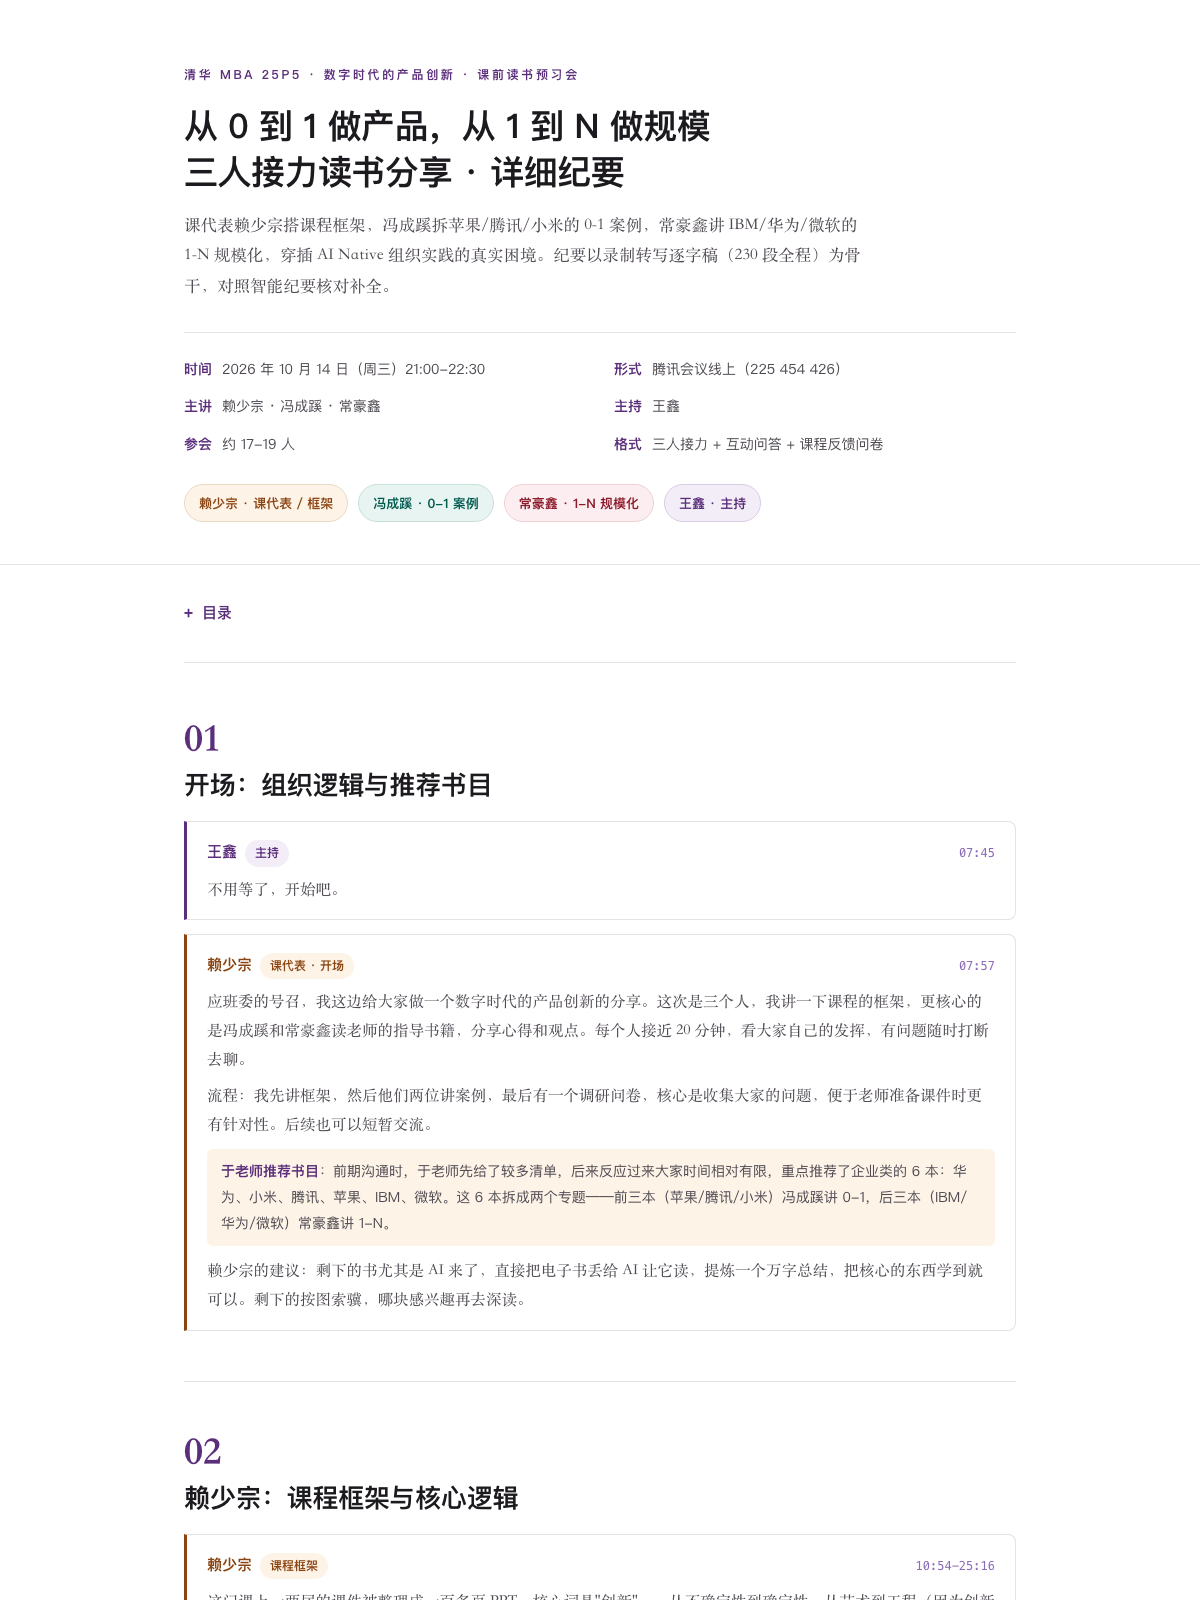
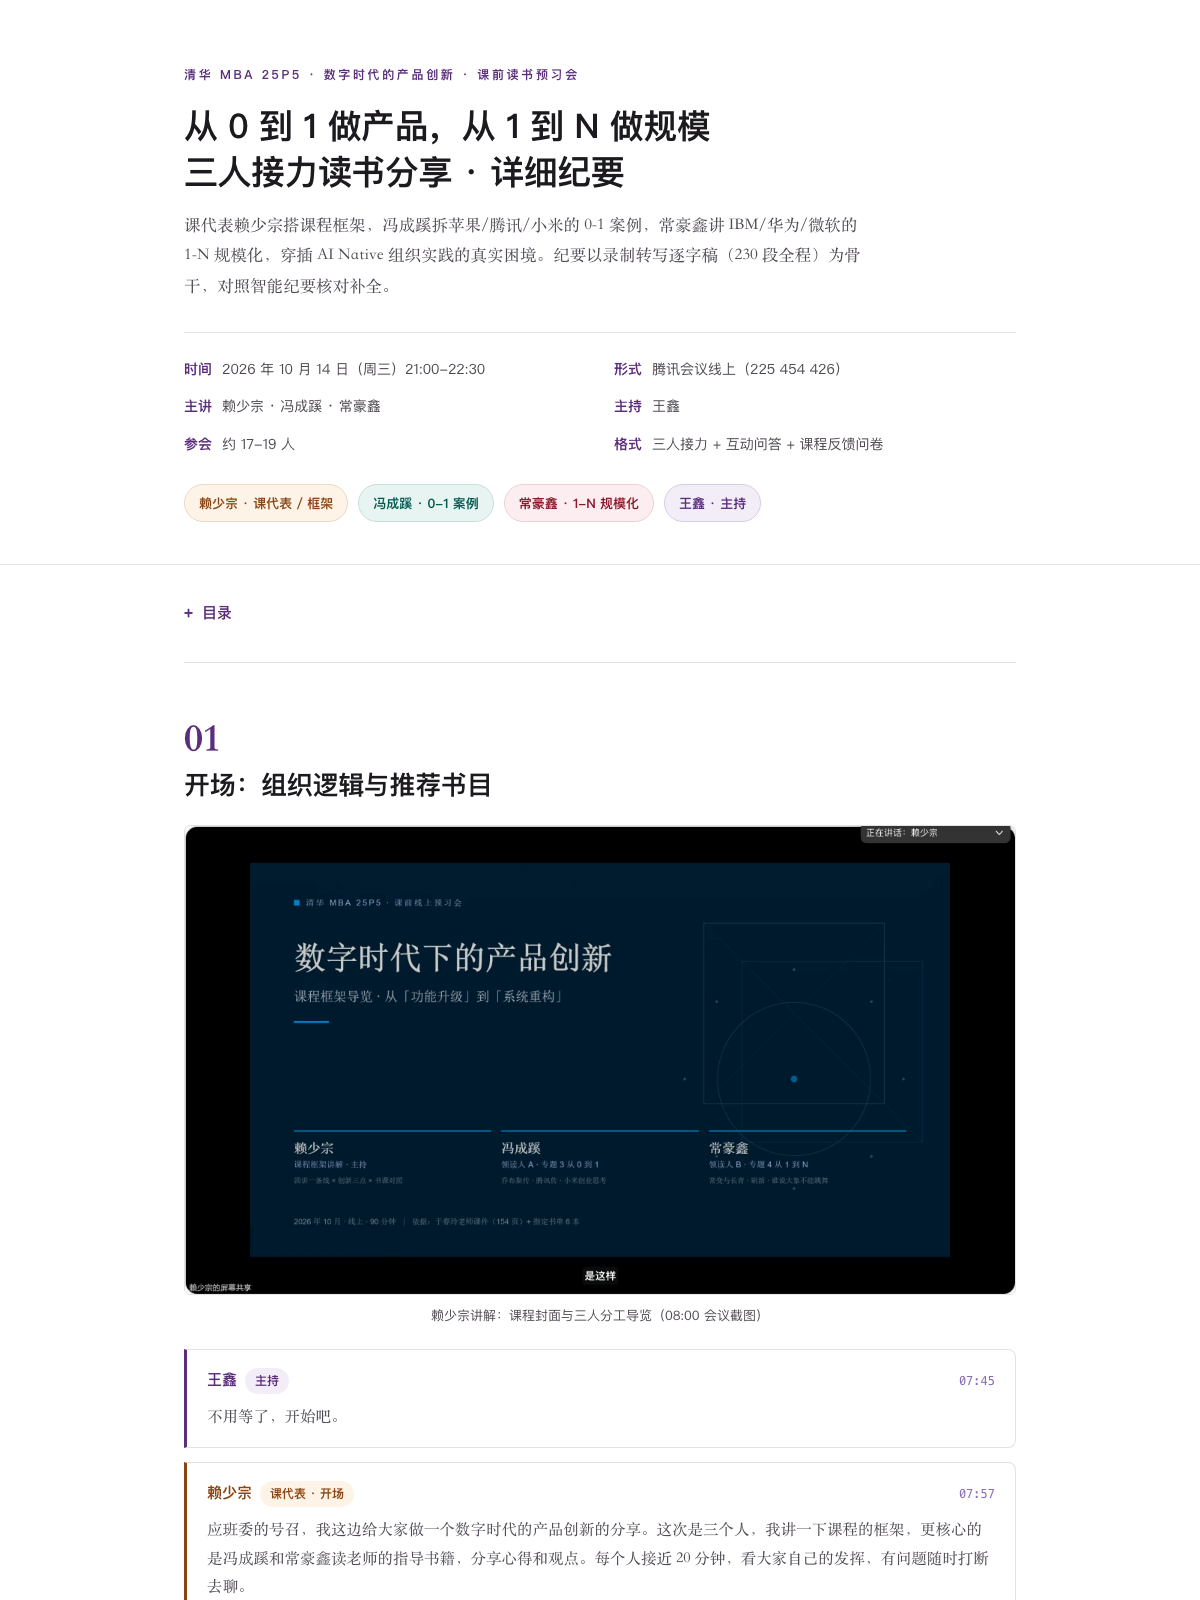
feat(dushuhui): 更新数字时代的产品创新读书会纪要至24图完整版

Changed region(s): [[0.1542, 0.5, 0.8633, 0.8438], [0.1542, 0.8438, 0.8325, 1.0]]

diff --git a/dushuhui/20261014-shuzichanpin-01/index.html b/dushuhui/20261014-shuzichanpin-01/index.html
@@ -251,6 +251,10 @@ section.ch{animation:fadein .5s ease both}
 <section class="ch" id="ch1">
   <div class="ch-num">01</div>
   <h2>开场：组织逻辑与推荐书目</h2>
+  <figure class="event-photo">
+    <img src="images/09-封面课程导览.png" alt="赖少宗讲解：课程封面与三人分工导览（08:00 会议截图）" width="2216" height="1248" loading="lazy">
+    <figcaption>赖少宗讲解：课程封面与三人分工导览（08:00 会议截图）</figcaption>
+  </figure>
 
   <div class="turn-list">
     <div class="turn host">
@@ -317,7 +321,11 @@ section.ch{animation:fadein .5s ease both}
     </table>
   </div>
 
-  <h3>关键数据与模型</h3>
+    <figure class="event-photo">
+    <img src="images/10-全课论证总图.png" alt="赖少宗讲解：全课论证总图：整门课在论证什么、靠什么串起来（14:00 会议截图）" width="2216" height="1248" loading="lazy">
+    <figcaption>赖少宗讲解：全课论证总图：整门课在论证什么、靠什么串起来（14:00 会议截图）</figcaption>
+  </figure>
+<h3>关键数据与模型</h3>
   <figure class="event-photo">
     <img src="images/slide-01-课程框架图.png" alt="产品创新三类协同课程框架图" width="1620" height="1080" loading="lazy">
     <figcaption>赖少宗讲解：产品创新三类协同课程框架图（11:20 会议截图）</figcaption>
@@ -325,6 +333,10 @@ section.ch{animation:fadein .5s ease both}
   <figure class="event-photo">
     <img src="images/slide-02-NPD流程与组合管理.png" alt="NPD流程与组合管理总逻辑图" width="1620" height="1080" loading="lazy">
     <figcaption>赖少宗讲解：NPD 流程与组合管理总逻辑图（14:47 会议截图）</figcaption>
+  </figure>
+  <figure class="event-photo">
+    <img src="images/11-颠覆式创新数据九宫格.png" alt="赖少宗讲解：颠覆式创新只占 14% 却贡献 61% 利润，含创新九宫格（20:44 会议截图）" width="2216" height="1248" loading="lazy">
+    <figcaption>赖少宗讲解：颠覆式创新只占 14% 却贡献 61% 利润，含创新九宫格（20:44 会议截图）</figcaption>
   </figure>
   <ul class="bul">
     <li><strong>颠覆式创新的价值</strong>：颠覆性新产品只占 <strong>14%</strong>，却贡献 <strong>61%</strong> 的利润；渐进式产品占 60% 多，只贡献 30% 多利润。结论：必须向颠覆式创新转型。</li>
@@ -336,6 +348,10 @@ section.ch{animation:fadein .5s ease both}
   </ul>
 
   <h3>九大秘诀（战略/组织/战术）</h3>
+  <figure class="event-photo">
+    <img src="images/12-创新战略四步框架.jpg" alt="赖少宗讲解：从目标到资源：四步框架把创新战略变成资源分配（22:15 会议截图）" width="2216" height="1248" loading="lazy">
+    <figcaption>赖少宗讲解：从目标到资源：四步框架把创新战略变成资源分配（22:15 会议截图）</figcaption>
+  </figure>
   <div class="turn lsz">
     <div class="turn-head">
       <span class="turn-name">赖少宗</span>
@@ -355,7 +371,11 @@ section.ch{animation:fadein .5s ease both}
     <li>成果数据：供应链集成后合同齐套发货率从 <strong>20% → 85%</strong>；客户结构上，前 50 大运营商收入占比从 <strong>38% → 65%</strong>。</li>
   </ul>
 
-  <h3>推荐书目与分工</h3>
+    <figure class="event-photo">
+    <img src="images/13-班级画像对号入座.png" alt="赖少宗讲解：四讲收官：按班级画像对号入座、带着问题进课堂（25:39 会议截图）" width="2216" height="1248" loading="lazy">
+    <figcaption>赖少宗讲解：四讲收官：按班级画像对号入座、带着问题进课堂（25:39 会议截图）</figcaption>
+  </figure>
+<h3>推荐书目与分工</h3>
   <div class="table-wrap">
     <table>
       <thead>
@@ -432,6 +452,10 @@ section.ch{animation:fadein .5s ease both}
   </div>
 
   <h4>1997 年乔布斯回归：产品线聚焦</h4>
+  <figure class="event-photo">
+    <img src="images/14-苹果四象限聚焦.jpg" alt="冯成蹊讲解：回归后的四格：明确客户与使用场景（38:23 会议截图）" width="2216" height="1248" loading="lazy">
+    <figcaption>冯成蹊讲解：回归后的四格：明确客户与使用场景（38:23 会议截图）</figcaption>
+  </figure>
   <div class="turn cqx">
     <div class="turn-head">
       <span class="turn-name">冯成蹊</span>
@@ -446,6 +470,10 @@ section.ch{animation:fadein .5s ease both}
   </div>
 
   <h4>iPod：NPD 全链路串起来的标杆案例（2000 年前后）</h4>
+  <figure class="event-photo">
+    <img src="images/15-iTunes与iPod分工.jpg" alt="冯成蹊讲解：iTunes 与 iPod：把整段听歌体验接起来（43:28 会议截图）" width="2216" height="1248" loading="lazy">
+    <figcaption>冯成蹊讲解：iTunes 与 iPod：把整段听歌体验接起来（43:28 会议截图）</figcaption>
+  </figure>
   <div class="turn cqx">
     <div class="turn-head">
       <span class="turn-name">冯成蹊</span>
@@ -511,6 +539,10 @@ section.ch{animation:fadein .5s ease both}
   </div>
 
   <h4>QQ 秀：从观察到落地的商业化转折点</h4>
+  <figure class="event-photo">
+    <img src="images/16-QQ秀商业化.jpg" alt="冯成蹊讲解：QQ 秀：自我表达怎样成为可付费的产品（54:33 会议截图）" width="2216" height="1248" loading="lazy">
+    <figcaption>冯成蹊讲解：QQ 秀：自我表达怎样成为可付费的产品（54:33 会议截图）</figcaption>
+  </figure>
   <div class="turn cqx">
     <div class="turn-head">
       <span class="turn-name">冯成蹊</span>
@@ -603,6 +635,10 @@ section.ch{animation:fadein .5s ease both}
   </div>
 
   <h4>爆品逻辑：让用户重复购买</h4>
+  <figure class="event-photo">
+    <img src="images/17-小米爆品模式.jpg" alt="冯成蹊讲解：爆品模式：用户为何持续购买和推荐（01:03:51 会议截图）" width="2216" height="1248" loading="lazy">
+    <figcaption>冯成蹊讲解：爆品模式：用户为何持续购买和推荐（01:03:51 会议截图）</figcaption>
+  </figure>
   <div class="turn cqx">
     <div class="turn-head">
       <span class="turn-name">冯成蹊</span>
@@ -675,6 +711,10 @@ section.ch{animation:fadein .5s ease both}
     <img src="images/slide-07-组合管理.png" alt="组合管理定义与资源分配决策机制" width="1728" height="1080" loading="lazy">
     <figcaption>常豪鑫讲解：组合管理定义与资源分配决策机制（01:10:31 会议截图）</figcaption>
   </figure>
+  <figure class="event-photo">
+    <img src="images/18-产品线经营两问.png" alt="常豪鑫讲解：组合管理·产品线经营两问：产品角色与价格带布局（01:12:40 会议截图）" width="2216" height="1248" loading="lazy">
+    <figcaption>常豪鑫讲解：组合管理·产品线经营两问：产品角色与价格带布局（01:12:40 会议截图）</figcaption>
+  </figure>
   <div class="turn chx">
     <div class="turn-head">
       <span class="turn-name">常豪鑫</span>
@@ -715,6 +755,10 @@ section.ch{animation:fadein .5s ease both}
   </div>
 
   <h3>战略桶与产品线 CEO</h3>
+  <figure class="event-photo">
+    <img src="images/19-战略桶资源部署.png" alt="常豪鑫讲解：组合管理·资源部署：战略桶按类型与系列分配资源（01:15:31 会议截图）" width="2216" height="1248" loading="lazy">
+    <figcaption>常豪鑫讲解：组合管理·资源部署：战略桶按类型与系列分配资源（01:15:31 会议截图）</figcaption>
+  </figure>
   <div class="turn chx">
     <div class="turn-head">
       <span class="turn-name">常豪鑫</span>
@@ -747,6 +791,10 @@ section.ch{animation:fadein .5s ease both}
     <img src="images/slide-08-IBM转型.png" alt="IBM郭士纳服务化转型决策原文" width="1728" height="1080" loading="lazy">
     <figcaption>常豪鑫讲解：IBM 郭士纳服务化转型决策原文（01:19:16 会议截图）</figcaption>
   </figure>
+  <figure class="event-photo">
+    <img src="images/20-IBM阅读印象.png" alt="常豪鑫讲解：IBM·阅读印象：四个关键决策与服务主导模式（01:23:51 会议截图）" width="2216" height="1248" loading="lazy">
+    <figcaption>常豪鑫讲解：IBM·阅读印象：四个关键决策与服务主导模式（01:23:51 会议截图）</figcaption>
+  </figure>
   <div class="turn chx">
     <div class="turn-head">
       <span class="turn-name">常豪鑫</span>
@@ -772,6 +820,10 @@ section.ch{animation:fadein .5s ease both}
   </div>
 
   <h3>华为《华为管理变革》</h3>
+  <figure class="event-photo">
+    <img src="images/21-华为无生命管理体系.png" alt="常豪鑫讲解：华为核心论点：构建「无生命的管理体系」（01:25:14 会议截图）" width="2216" height="1248" loading="lazy">
+    <figcaption>常豪鑫讲解：华为核心论点：构建「无生命的管理体系」（01:25:14 会议截图）</figcaption>
+  </figure>
   <div class="turn chx">
     <div class="turn-head">
       <span class="turn-name">常豪鑫</span>
@@ -797,6 +849,14 @@ section.ch{animation:fadein .5s ease both}
   </div>
 
   <h3>微软《刷新》</h3>
+  <figure class="event-photo">
+    <img src="images/22-微软加减法并购.png" alt="常豪鑫讲解：微软加减法：砍手机聚焦云，用并购补能力拼图（01:30:47 会议截图）" width="2216" height="1248" loading="lazy">
+    <figcaption>常豪鑫讲解：微软加减法：砍手机聚焦云，用并购补能力拼图（01:30:47 会议截图）</figcaption>
+  </figure>
+  <figure class="event-photo">
+    <img src="images/23-微软阅读印象.jpg" alt="常豪鑫讲解：微软·阅读印象：移动为先云为先与投资三层策略（01:31:50 会议截图）" width="2216" height="1248" loading="lazy">
+    <figcaption>常豪鑫讲解：微软·阅读印象：移动为先云为先与投资三层策略（01:31:50 会议截图）</figcaption>
+  </figure>
   <div class="turn chx">
     <div class="turn-head">
       <span class="turn-name">常豪鑫</span>
@@ -816,6 +876,10 @@ section.ch{animation:fadein .5s ease both}
   </div>
 
   <h3>三本书对照</h3>
+  <figure class="event-photo">
+    <img src="images/24-书课对照矩阵.png" alt="常豪鑫讲解：书课对照矩阵：以组合管理为视角串起三本书（01:33:51 会议截图）" width="2216" height="1248" loading="lazy">
+    <figcaption>常豪鑫讲解：书课对照矩阵：以组合管理为视角串起三本书（01:33:51 会议截图）</figcaption>
+  </figure>
   <div class="table-wrap">
     <table>
       <thead>
